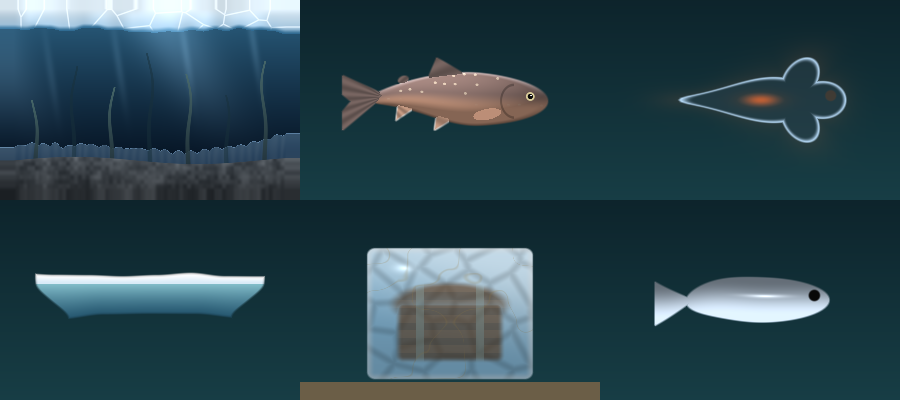
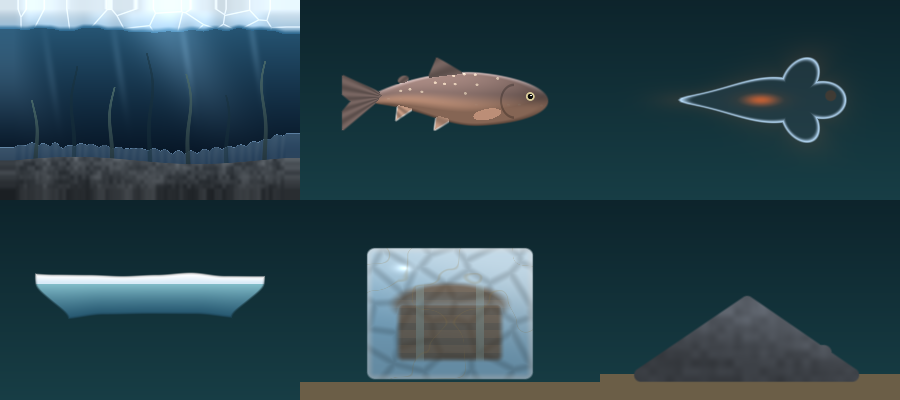
Themes pick the seaweed's shapes (new: reeds with cattails, thin ribbons) and dress the pebbles, little shells and pearls; river stones and snail shells in the pond, gravel and ice chips in the arctic

Changed region(s): [[0.6533, 0.69, 1.0, 1.0]]

diff --git a/Sources/Fishbots/Tank.swift b/Sources/Fishbots/Tank.swift
@@ -840,11 +840,17 @@ final class Tank {
     private var weedBendVel = [Float](repeating: 0, count: 16)
 
     func weedUniforms() -> [SIMD4<Float>] {
-        (0..<16).map { k in k < weeds.count ? SIMD4(weeds[k].x, weeds[k].h, weedBend[k], Float(Self.weedKind(k))) : .zero }
+        (0..<16).map { k in k < weeds.count ? SIMD4(weeds[k].x, weeds[k].h, weedBend[k], Float(weedKind(k))) : .zero }
     }
 
     /// Each blade's kind: 0 thin blade, 1 kelp, 2 leafy stem (mixed, so neighbors differ).
     static func weedKind(_ k: Int) -> Int { [0, 1, 2, 0, 2, 1, 0, 2, 1, 0, 1, 2, 0, 2, 0, 1][k % 16] }
+    /// The theme's seaweed shapes (0 blade, 1 kelp, 2 leafy, 3 reed, 4 ribbon), mixed along the tank (nil: the usual mix).
+    var weedShapes: [Int]?
+    func weedKind(_ k: Int) -> Int {
+        guard let s = weedShapes, !s.isEmpty else { return Self.weedKind(k) }
+        return s[(k * 7 + k / 3) % s.count]                                   // mixed, so neighbors differ
+    }
 
     private var oxygenAt: Double = 0
     private var pearlGlintAt: Double = 0
@@ -2002,17 +2008,35 @@ final class Tank {
                               phase: s.id == "chest" || s.id == "shell" ? Float(time) : s.seed, color: SIMD4(color, 1),
                               extra: [1, s.id == "chest" ? min(1, chestLid) : s.id == "shell" ? 1 : 0, 0, 0]))
         }
-        // pebbles and little shells on the sand
+        // pebbles and little shells on the sand (the theme may draw them its own way: "pebble", "seashell")
+        let looks = FishKinds.dressByTheme ? Themes.current.looks : [:]
         for p in pebbles {
             let x = clearOfScenery(size.x * p.u)
+            if let look = looks[p.shell ? "seashell" : "pebble"], let i = SceneryKinds.index(of: look) {
+                let k = SceneryKinds.all[i]
+                let sz = p.size * 1.3
+                out.append(Sprite(pos: [x, size.y * sand(x / max(1, size.x)) + sz * k.extent.y * 0.9], dir: [1, 0], size: sz, kind: 35,
+                                  glow: 0, phase: Float(time), color: SIMD4(mix(k.color * lit, water, t: 0.2), 1),
+                                  extra: [1, p.tone, Float(i), 0], aux: [k.extent.x, k.extent.y, 0, 0]))
+                continue
+            }
             let y = size.y * sand(x / max(1, size.x)) + p.size * 0.25
             let base: SIMD3<Float> = p.shell ? [0.95, 0.82, 0.74] : mix([0.36, 0.33, 0.3], [0.58, 0.52, 0.44], t: p.tone)
             out.append(Sprite(pos: [x, y], dir: [1, 0], size: p.size * (p.shell ? 1.1 : 1), kind: p.shell ? 22 : 21, glow: 0,
                               phase: p.seed, color: SIMD4(mix(base * lit, water, t: 0.2), 1), extra: [1, 0, 0, 0]))
         }
         // pearls of the day, on the sand
+        let pearlLook = looks["pearl"].flatMap { SceneryKinds.index(of: $0) }
         for (i, p) in pearls.enumerated() {
             let new = i < bornAt.count && bornAt[i] > 0 ? max(0, 1 - Float(time - bornAt[i]) / 3) : 0
+            if let li = pearlLook {
+                // the theme's pearl: col is the project's color, glow while it's new
+                let k = SceneryKinds.all[li]
+                out.append(Sprite(pos: pearlPos(p), dir: [1, 0], size: 7, kind: 35, glow: new, phase: Float(time),
+                                  color: [p.color[0], p.color[1], p.color[2], 1], extra: [1, (Float(i) * 0.618).truncatingRemainder(dividingBy: 1), Float(li), 0],
+                                  aux: [k.extent.x, k.extent.y, 0, 0]))
+                continue
+            }
             out.append(Sprite(pos: pearlPos(p), dir: [1, 0], size: 6, kind: 12, glow: new, phase: Float(i),
                               color: [p.color[0], p.color[1], p.color[2], 1], extra: [1, 0, 0, 0]))
         }

diff --git a/Sources/Fishbots/Shaders.swift b/Sources/Fishbots/Shaders.swift
@@ -264,6 +264,26 @@ fragment Frag2 bg_fragment(BgOut in [[stage_in]], constant Uniforms& u [[buffer(
                 float vein = (1.0 - smoothstep(0.0, 0.18, abs(ln.y))) * step(abs(ln.x), 0.8);
                 green = mix(green, (green * 1.25 + 0.03) * shade + green * vein * 0.25, leaf * 0.85);
                 green *= 1.0 - stem * (1.0 - leaf) * 0.25;
+            } else if (kind == 3) {
+                // a reed: a straight, stiff stem that barely sways, a few with a cattail's brown head near the top
+                float dxr = (uv.x + u.gaze.x * 0.012 - x0 - sway * 0.25) * aspect;
+                float w = 0.0032 * (1.0 - 0.5 * k01);
+                blade = 1.0 - smoothstep(w * 0.5, w, abs(dxr));
+                green = mix(green, float3(0.45, 0.5, 0.25) * (0.45 + 0.55 * L), 0.35);
+                green *= 0.85 + 0.25 * smoothstep(-w, w, dxr);
+                if (fmod(fk, 2.0) < 0.5) {
+                    float hy = (k01 - 0.86) / 0.07;
+                    float head = (1.0 - smoothstep(0.8, 1.0, length(float2(dxr / 0.0075, hy)))) * step(abs(hy), 1.0);
+                    blade = max(blade, head);
+                    green = mix(green, float3(0.38, 0.24, 0.13) * (0.45 + 0.6 * L) * (0.85 + 0.3 * smoothstep(-0.007, 0.007, dxr)), head);
+                }
+            } else if (kind == 4) {
+                // a ribbon: thin, dark and long, waving a lot, a little see-through
+                float dxw = dx - sin(yy * 30.0 - t * 1.6 + fk) * 0.004 * k01 * aspect;
+                float w = 0.006 * (1.0 - 0.6 * k01);
+                blade = (1.0 - smoothstep(w * 0.4, w, abs(dxw))) * 0.8;
+                green = mix(green, float3(0.12, 0.18, 0.16) * (0.45 + 0.55 * L), 0.5);
+                green *= 0.8 + 0.3 * smoothstep(-w, w, dxw);
             } else {
                 // a flat blade that turns as it rises: narrow and darker where it's seen edge-on
                 float tw = sin(yy * 16.0 + fk * 2.3 + t * 0.5);

diff --git a/Sources/Fishbots/Theme.swift b/Sources/Fishbots/Theme.swift
@@ -50,6 +50,8 @@ struct Theme {
     var schools: [School]?
     /// The jellyfish that drifts around (false: none here).
     var jellyfish = true
+    /// The seaweed's shapes ("weeds": {"shapes": ["reed", "blade"]}): blade, kelp, leafy, reed, ribbon (nil: the usual mix).
+    var weedShapes: [Int]?
     var weedCount: Int { Int(uniforms.params.x) }
 
     /// A color from JSON: "#rrggbb" or [r, g, b] (0…1).
@@ -101,6 +103,11 @@ struct Theme {
         if let s = json["sky"] as? [String: Any] { sky = Sky(json: s) }
         if let list = json["schools"] as? [[String: Any]] { schools = list.prefix(3).map(School.init(json:)) }
         jellyfish = json["jellyfish"] as? Bool ?? true
+        let shapeNames = ["blade": 0, "kelp": 1, "leafy": 2, "reed": 3, "ribbon": 4]
+        if let s = (json["weeds"] as? [String: Any])?["shapes"] as? [String] {
+            let ids = s.compactMap { shapeNames[$0] }
+            weedShapes = ids.isEmpty ? nil : ids
+        }
     }
 
     /// The original look.

diff --git a/Sources/Fishbots/AppDelegate.swift b/Sources/Fishbots/AppDelegate.swift
@@ -1922,6 +1922,7 @@ final class AppDelegate: NSObject, NSApplicationDelegate, NSMenuItemValidation, 
         tank.rayStrength = t.uniforms.params.z
         visual.themeVisualizer = t.visualizer
         tank.fauna.select(t.fauna)
+        tank.weedShapes = t.weedShapes
         tank.sceneryLooks = t.looks
         tank.sceneryKinds = t.scenery
         // the theme's looks for presences and fish kinds (Preferences: "Vestir presenças e peixes com o tema")

diff --git a/skills/fishbots-packs/reference.md b/skills/fishbots-packs/reference.md
@@ -9,7 +9,7 @@
   "names": {
     "en": "Japanese pond"
   },
-  "version": "1.4",
+  "version": "1.5",
   "author": "Fishbots",
   "license": "MIT",
   "description": "Um lago japonês: carpas koi em quatro variedades, lanterna de pedra, vitórias-régias com lótus, sapos, girinos, camarões e música zen.",
@@ -46,7 +46,9 @@
         "flag": "koinobori",
         "helm": "suisha",
         "shark": "namazu",
-        "betta": "ryukin"
+        "betta": "ryukin",
+        "pebble": "river-stone",
+        "seashell": "snail-shell"
       },
       "background": {
         "metal": "background.metal",
@@ -68,7 +70,13 @@
         "farCount": 10,
         "far": "#25463a",
         "low": "#1d4a2a",
-        "high": "#7aa64a"
+        "high": "#7aa64a",
+        "shapes": [
+          "reed",
+          "blade",
+          "leafy",
+          "reed"
+        ]
       },
       "sand": {
         "dark": "#3a3a34",
@@ -282,6 +290,38 @@
         0.88
       ],
       "color": "#4f8a3e"
+    },
+    {
+      "id": "river-stone",
+      "name": "seixo de rio",
+      "names": {
+        "en": "river stone"
+      },
+      "metal": "lantern.metal",
+      "function": "draw_koi_stone",
+      "anchor": "sand",
+      "size": 0.012,
+      "extent": [
+        1.0,
+        0.6
+      ],
+      "color": "#8a8070"
+    },
+    {
+      "id": "snail-shell",
+      "name": "concha de caramujo",
+      "names": {
+        "en": "snail shell"
+      },
+      "metal": "lantern.metal",
+      "function": "draw_koi_snail_shell",
+      "anchor": "sand",
+      "size": 0.01,
+      "extent": [
+        1.0,
+        0.75
+      ],
+      "color": "#a07850"
     }
   ],
   "sounds": [
@@ -463,7 +503,9 @@ A pack theme can draw its own far background and give the built-in pieces anothe
     in the fish menu stays as picked. `"betta"` is the music fish (it keeps dancing and letting out notes);
     `"lanternfish"` the night lanternfish;
   - a **built-in creature** (`crab`, `turtle`, `snail`, `starfish`, `whale`, `jellyfish`): drawn as one of the pack's
-    creatures (or, for the jellyfish, a presence), moving as always.
+    creatures (or, for the jellyfish, a presence), moving as always;
+  - the **little things on the sand** (`pebble`, `seashell`, `pearl`): drawn as one of the pack's scenery pieces (sized
+    by the app; a pearl's drawing gets the project's color as `col` and glows while it's new).
 
   People can turn this off in Preferências → Aparência ("Vestir presenças e peixes com o tema").
 
@@ -480,6 +522,8 @@ A pack theme can draw its own far background and give the built-in pieces anothe
   far), each `{"color", "kind", "count", "size": [lo, hi], "pattern", "depth": [lo, hi]}`; `kind` may be a pack's fish.
   Without it, the usual neons, tetras and silversides.
 - `jellyfish`: `false` leaves out the jellyfish that drifts around.
+- `weeds.shapes`: the seaweed's shapes, mixed along the tank: `blade`, `kelp`, `leafy`, `reed` (straight, some with a
+  cattail's head), `ribbon` (thin, dark, waving). Without it, blades, kelp and leafy stems.
 - `description` / `descriptions`: one sentence about the theme for the themes window (the pack's, if it has none).
 
 Anything a theme doesn't define comes from the app: no `background`, the usual one; no `looks`, the usual pieces;

diff --git a/docs/extensions.md b/docs/extensions.md
@@ -145,7 +145,9 @@ A pack theme can draw its own far background and give the built-in pieces anothe
     in the fish menu stays as picked. `"betta"` is the music fish (it keeps dancing and letting out notes);
     `"lanternfish"` the night lanternfish;
   - a **built-in creature** (`crab`, `turtle`, `snail`, `starfish`, `whale`, `jellyfish`): drawn as one of the pack's
-    creatures (or, for the jellyfish, a presence), moving as always.
+    creatures (or, for the jellyfish, a presence), moving as always;
+  - the **little things on the sand** (`pebble`, `seashell`, `pearl`): drawn as one of the pack's scenery pieces (sized
+    by the app; a pearl's drawing gets the project's color as `col` and glows while it's new).
 
   People can turn this off in Preferências → Aparência ("Vestir presenças e peixes com o tema").
 
@@ -162,6 +164,8 @@ A pack theme can draw its own far background and give the built-in pieces anothe
   far), each `{"color", "kind", "count", "size": [lo, hi], "pattern", "depth": [lo, hi]}`; `kind` may be a pack's fish.
   Without it, the usual neons, tetras and silversides.
 - `jellyfish`: `false` leaves out the jellyfish that drifts around.
+- `weeds.shapes`: the seaweed's shapes, mixed along the tank: `blade`, `kelp`, `leafy`, `reed` (straight, some with a
+  cattail's head), `ribbon` (thin, dark, waving). Without it, blades, kelp and leafy stems.
 - `description` / `descriptions`: one sentence about the theme for the themes window (the pack's, if it has none).
 
 Anything a theme doesn't define comes from the app: no `background`, the usual one; no `looks`, the usual pieces;

diff --git a/skills/fishbots-packs/SKILL.md b/skills/fishbots-packs/SKILL.md
@@ -132,6 +132,9 @@ The built-in aquarium is soft, rounded, lit from the surface, and reads at 30–
   (`"oval": "koi"`; `"betta"` is the music fish, `"lanternfish"` the night one) → one of the pack's fish (a kind picked
   by hand stays); a built-in creature (`crab turtle snail starfish whale jellyfish`) → one of the pack's creatures.
   Users can turn dressing off.
+- **Sand and seaweed:** `"looks"` also takes `pebble`, `seashell` and `pearl` (→ pack scenery: river stones, ice chips;
+  a pearl gets the project's color); `"weeds": {"shapes": ["reed", "ribbon", "blade", "kelp", "leafy"]}` picks the
+  seaweed's shapes.
 - **Schools and jellyfish:** `"schools": [{"color", "kind", "count", "size": [lo, hi], "pattern", "depth": [lo, hi]}]`
   (up to 3: middle, high, low and far) replaces the tropical neons; `"jellyfish": false` removes the drifting one.
 - **Presences** (`"presences"`): kinds plugins can send (`"kind": "<id>"`), with `motion` (swim drift hover walk sit
